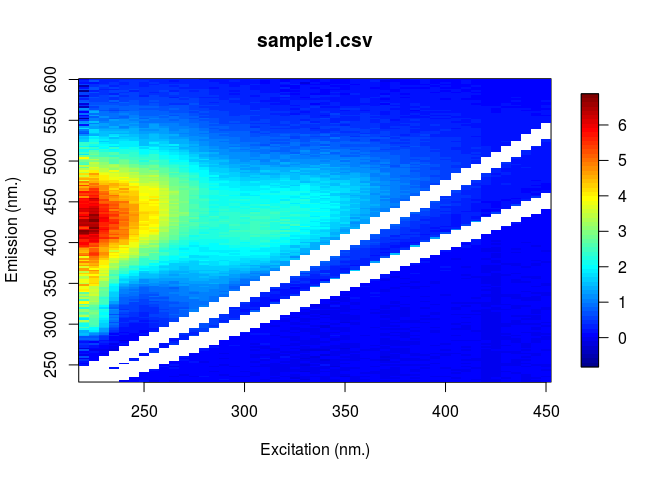
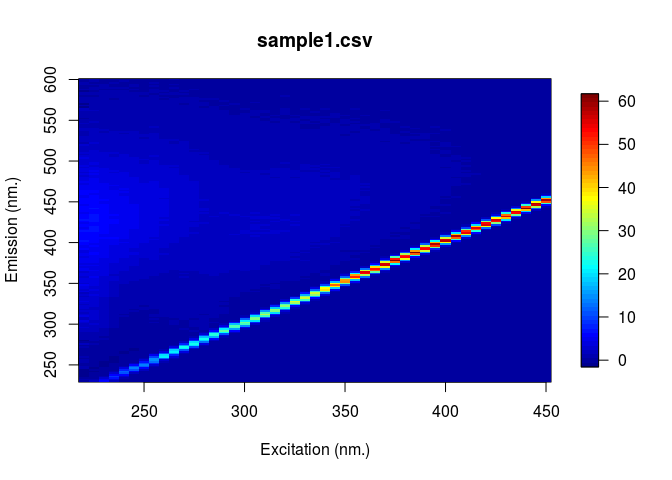
work on README

diff --git a/README.md b/README.md
@@ -7,7 +7,7 @@
 EEM (excitation-emission fluorescence matrix)
 =============================================
 
-The **eemR** package implements various functions used calculate metrics from excitation-emission matrix (EEM) as well as to preform pre-processing corrections before PARAFAC analysis (Bro 1997; C. A. Stedmon and Markager 2005; Murphy et al. 2013). All functions from this package start with the `eem_` prefix. Please note this is a very alpha version of the package for testing purpose only.
+The **eemR** package implements various functions used calculate metrics from excitation-emission matrix (EEM) as well as to preform pre-processing corrections before PARAFAC analysis (Bro 1997; C. A. Stedmon and Markager 2005; Murphy et al. 2013). All functions from this package start with the `eem_` prefix.
 
 ``` r
 library(eemR)
@@ -18,6 +18,14 @@ ls("package:eemR")
 #> [7] "eem_read"                "eem_remove_blank"       
 #> [9] "eem_remove_scattering"
 ```
+
+The package can be installed using the following command.
+
+``` r
+devtools::install_github("PMassicotte/eemR")
+```
+
+Please note this is a very alpha version of the package for testing purpose only.
 
 Reading EEMs
 ============
@@ -77,7 +85,7 @@ The current implemented metrics are:
 
 2.  The fluorescence peaks proposed by Coble (1996).
 
-3.  The fluorescence humification index (HIX) by Kalbitz, Geyer, and Geyer (1999).
+3.  The fluorescence humification index (HIX) by Ohno (2002).
 
 4.  The biological fluorescence index (BIX) by Huguet et al. (2009).
 
@@ -88,7 +96,7 @@ library(eemR)
 folder <- system.file("extdata/cary/eem", package = "eemR")
 eem <- eem_read(folder)
 
-eem_fluorescence_index(eem)
+eem_fluorescence_index(eem, verbose = FALSE)
 #> Source: local data frame [3 x 2]
 #> 
 #>        sample       fi
@@ -97,25 +105,34 @@ eem_fluorescence_index(eem)
 #> 2 sample2.csv 1.455333
 #> 3 sample3.csv 1.329413
 
-eem_coble_peaks(eem)
+eem_coble_peaks(eem, verbose = FALSE)
 #> Source: local data frame [3 x 6]
 #> 
 #>        sample        b         t        a        m         c
 #>         (chr)    (dbl)     (dbl)    (dbl)    (dbl)     (dbl)
-#> 1 sample1.csv 1.545298 1.0603312 3.731836 2.459364 1.8154222
-#> 2 sample2.csv 1.262997 0.6647042 1.584842 1.067836 0.7729534
-#> 3 sample3.csv 1.474086 1.3162812 8.416034 6.084682 6.3361907
+#> 1 sample1.csv 1.545298 1.0603312 3.731836 2.426597 1.8154222
+#> 2 sample2.csv 1.262997 0.6647042 1.584842 1.023998 0.7729534
+#> 3 sample3.csv 1.474086 1.3162812 8.416034 6.063355 6.3361907
 
-eem_humification_index(eem)
+eem_humification_index(eem, verbose = FALSE)
 #> Source: local data frame [3 x 2]
 #> 
 #>        sample       hix
 #>         (chr)     (dbl)
-#> 1 sample1.csv  5.856856
-#> 2 sample2.csv  3.903486
-#> 3 sample3.csv 12.113457
+#> 1 sample1.csv  6.383002
+#> 2 sample2.csv  4.252252
+#> 3 sample3.csv 13.025595
 
-eem_biological_index(eem)
+eem_humification_index(eem, verbose = FALSE, scale = TRUE)
+#> Source: local data frame [3 x 2]
+#> 
+#>        sample       hix
+#>         (chr)     (dbl)
+#> 1 sample1.csv 0.8645537
+#> 2 sample2.csv 0.8096055
+#> 3 sample3.csv 0.9287018
+
+eem_biological_index(eem, verbose = FALSE)
 #> Source: local data frame [3 x 2]
 #> 
 #>        sample       bix
@@ -136,7 +153,27 @@ Three types of correction are currently supported:
 
 3.  `eem_raman_normalisation()` which normalize EEM fluoresence intensities (Lawaetz and Stedmon 2009).
 
-4.  `eem_inner_filter()` which correct for both primary and secondary inner-filter effect (Ohno 2002). **TODO \#1**
+4.  `eem_inner_filter()` which correct for both primary and secondary inner-filter effect. **TODO \#1**
+
+Blank removal
+-------------
+
+The `eem_remove_blank()` function subtract blank (miliq) water from eem. Scatter bands can often be reduced by subtracting water blank (Murphy et al. 2013).
+
+``` r
+file <- system.file("extdata/cary/eem", "sample1.csv", package = "eemR")
+eem <- eem_read(file)
+
+file <- system.file("extdata/cary", "nano.csv", package = "eemR")
+blank <- eem_read(file)
+
+res <- eem_remove_blank(eem, blank)
+
+plot(eem)
+plot(res)
+```
+
+<img src="README-unnamed-chunk-5-1.png" title="" alt="" width="300cm" height="250cm" /><img src="README-unnamed-chunk-5-2.png" title="" alt="" width="300cm" height="250cm" />
 
 Removing Raman and Rayleigh scattering (1st and 2nd order)
 ----------------------------------------------------------
@@ -145,29 +182,8 @@ The `eem_remove_scattering()` function removes both Raman and Rayleigh scatterin
 
 ``` r
 
-file <- system.file("extdata/cary/eem", "sample1.csv", package = "eemR")
-eem <- eem_read(file)
-
 res <- eem_remove_scattering(eem = eem, type = "raman", order = 1, width = 10)
 res <- eem_remove_scattering(eem = res, type = "rayleigh", order = 1, width = 10)
-
-plot(eem)
-plot(res)
-```
-
-<img src="README-unnamed-chunk-5-1.png" title="" alt="" width="300cm" height="250cm" /><img src="README-unnamed-chunk-5-2.png" title="" alt="" width="300cm" height="250cm" />
-
-Blank removal
--------------
-
-The `eem_remove_blank()` function subtract blank (miliq) water from eem. Scatter bands can often be reduced by subtracting water blank (Murphy et al. 2013).
-
-``` r
-
-file <- system.file("extdata/cary", "nano.csv", package = "eemR")
-blank <- eem_read(file)
-
-res <- eem_remove_blank(res, blank)
 
 plot(res)
 ```
@@ -201,7 +217,7 @@ eem <- eem_read(folder)
 filename <- paste(tempfile(), ".mat", sep = "")
 
 eem_export_matlab(filename, eem)
-#> Sucesfully exported 3 EEMs to /tmp/RtmpkBNOT2/file53115a0485e7.mat.
+#> Sucesfully exported 3 EEMs to /tmp/Rtmp7TkFQL/file50e523ba3b8b.mat.
 ```
 
 Note that the name of the structure generated by the function will be `OriginalData` to *complement* with PARAFAC standard. Then, the importation into Matlab is made easy using the `load()` function.
@@ -218,8 +234,6 @@ Bro, Rasmus. 1997. “PARAFAC. Tutorial and applications.” *Chemometrics and I
 Coble, Paula G. 1996. “Characterization of marine and terrestrial DOM in seawater using excitation-emission matrix spectroscopy.” *Marine Chemistry* 51 (4): 325–46. [doi:10.1016/0304-4203(95)00062-3](http://doi.org/10.1016/0304-4203(95)00062-3).
 
 Huguet, A., L. Vacher, S. Relexans, S. Saubusse, J.M. Froidefond, and E. Parlanti. 2009. “Properties of fluorescent dissolved organic matter in the Gironde Estuary.” *Organic Geochemistry* 40 (6). Elsevier Ltd: 706–19. [doi:10.1016/j.orggeochem.2009.03.002](http://doi.org/10.1016/j.orggeochem.2009.03.002).
-
-Kalbitz, K., W. Geyer, and S. Geyer. 1999. “Spectroscopic properties of dissolved humic substances - a reflection of land use history in a fen area.” *Biogeochemistry* 47 (2): 219–38. [doi:10.1023/A:1006134214244](http://doi.org/10.1023/A:1006134214244).
 
 Lawaetz, A J, and C A Stedmon. 2009. “Fluorescence Intensity Calibration Using the Raman Scatter Peak of Water.” *Applied Spectroscopy* 63 (8): 936–40. [doi:10.1366/000370209788964548](http://doi.org/10.1366/000370209788964548).
 
